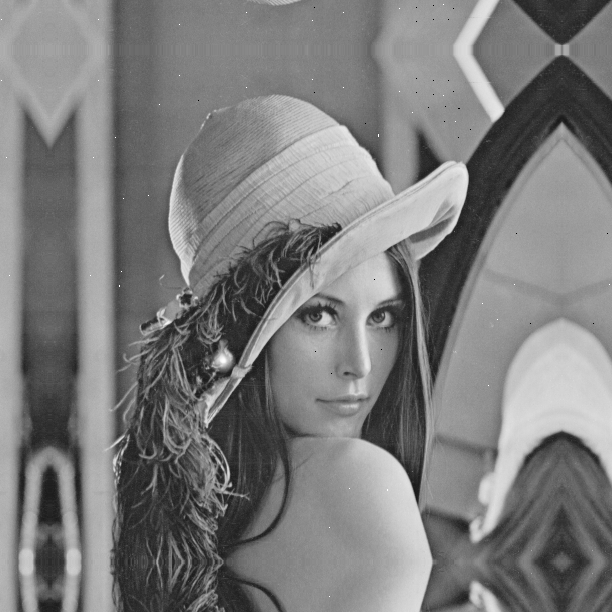
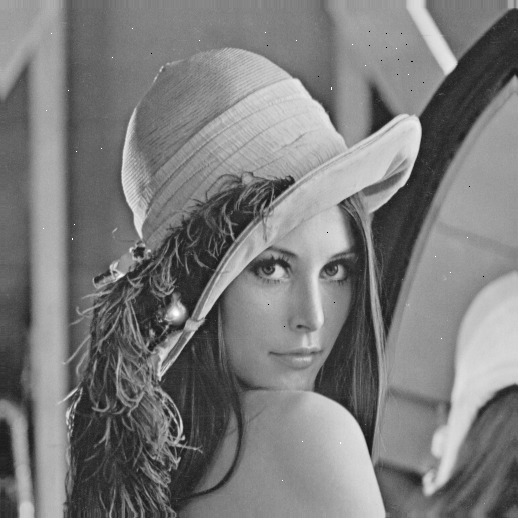
processing median image

diff --git a/ProcessingPipeline/src/processingpipeline/MedianFilter.java b/ProcessingPipeline/src/processingpipeline/MedianFilter.java
@@ -1,0 +1,54 @@
+package processingpipeline;
+
+public class MedianFilter {
+
+    int nrows, ncols;
+    int[][] inImage; 
+    int[][] outImage;
+
+    /*--------------------------------------------------------------------------------------------*/
+    public int[][] process(int[][] source) {
+        
+        this.inImage = source;
+        nrows = source.length; 
+        ncols = source[0].length;
+               
+        outImage = new int[nrows][ncols];
+
+        //--- Browse Source Image Matrix----//
+        for (int i = 0; i < nrows; i++) {
+            for (int j = 0; j < ncols; j++) {
+                outImage[i][j] = median(i, j);
+            }
+        }
+        
+        return outImage;
+    }
+    /*--------------------------------------------------------------------------------------------*/
+    private int median(int i, int j) {
+        int m, n, count, t[], tmp;
+
+        //--- Browse Kernel Matrix ---//
+        t = new int[9];
+        for (m = i - 1, count = 0; m <= i + 1; m++) {
+            for (n = j - 1; n <= j + 1; n++) {
+                if (m >= 0 && m < nrows && n >= 0 && n < ncols) {
+                    t[count++] = inImage[m][n];
+                }
+            }
+        }
+
+        //--- Apply Bubble Sort ---//
+        for (m = 0; m < count - 1; m++) {
+            for (n = m + 1; n < count; n++) {
+                if (t[m] < t[n]) {
+                    tmp = t[m];
+                    t[m] = t[n];
+                    t[n] = tmp;
+                }
+            }
+        }
+        return t[count / 2];
+    }
+    /*--------------------------------------------------------------------------------------------*/    
+} 

diff --git a/ProcessingPipeline/src/processingpipeline/Main.java b/ProcessingPipeline/src/processingpipeline/Main.java
@@ -14,8 +14,12 @@ public class Main {
     public static void main(String[] args) throws IOException {
 
         System.out.println("Processing Pipeline");
-        int[][] array = ProcessPrecentile();
-        ProcessReflection(array, 7, 7);
+        int[][] imgPrecentile = ProcessPrecentile();
+        int[][] imgReflection = ProcessReflection(imgPrecentile, 7, 7);
+        
+        MedianFilter median = new MedianFilter();
+        int[][] imgMedian = median.process(imgReflection);        
+        ImageWrite("src/image/Median.png", imgMedian);
         
     }
     /*--------------------------------------------------------------------------------------------*/    
@@ -29,7 +33,7 @@ public class Main {
         
         //int[][] simage = ref.ScaleDown(oimage,padding_x,padding_y);
         //ImageWrite(simage, "src/image/scaledown.png");        
-    }
+    } 
     /*--------------------------------------------------------------------------------------------*/    
     private static int[][] ProcessPrecentile() throws IOException {
         
